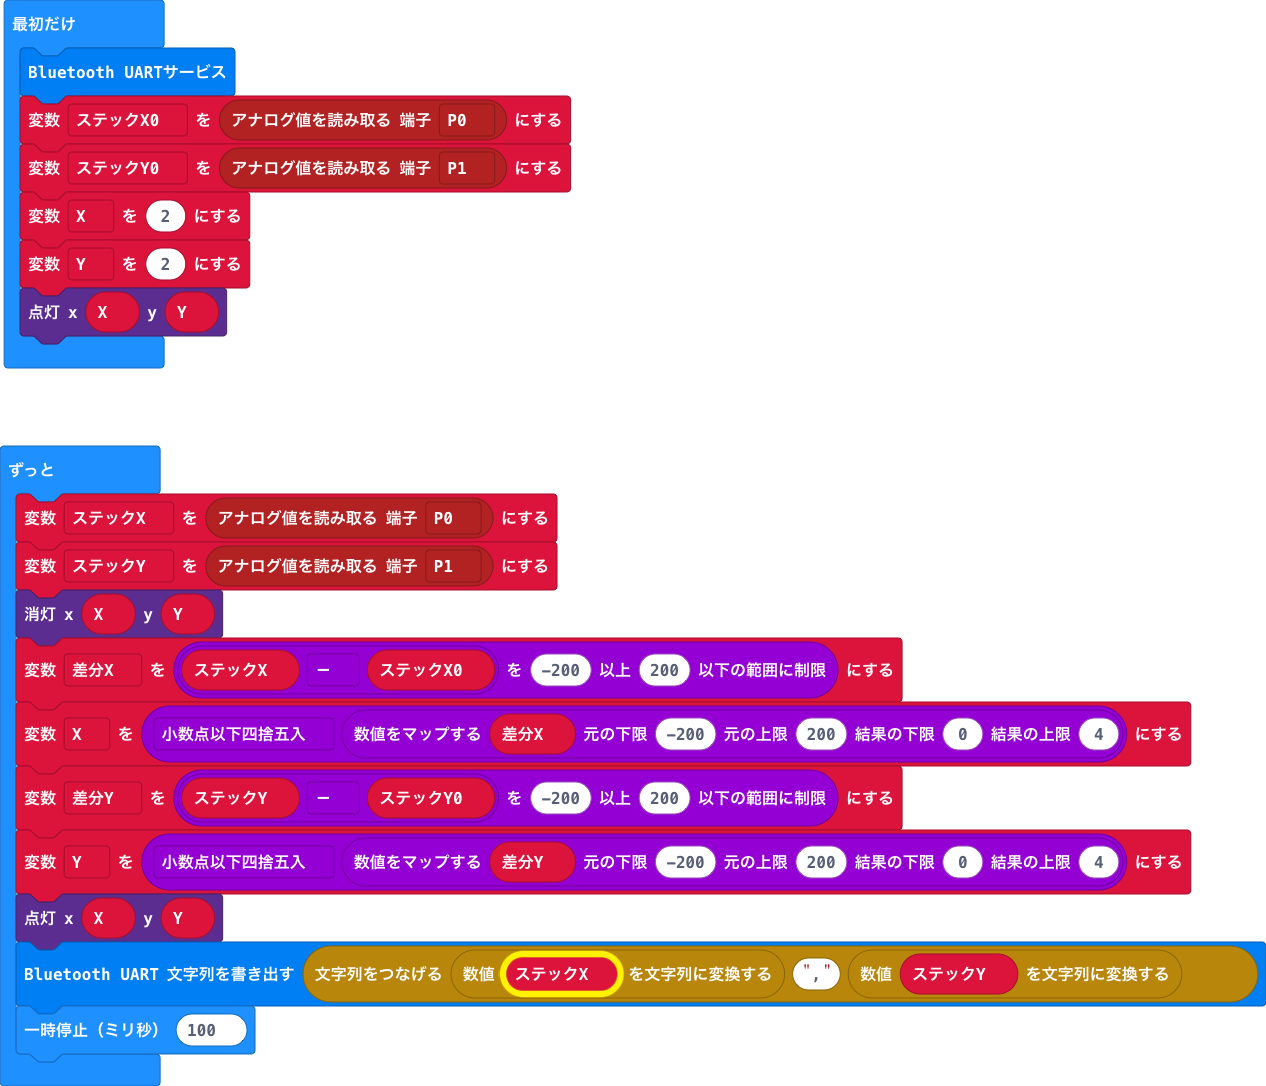
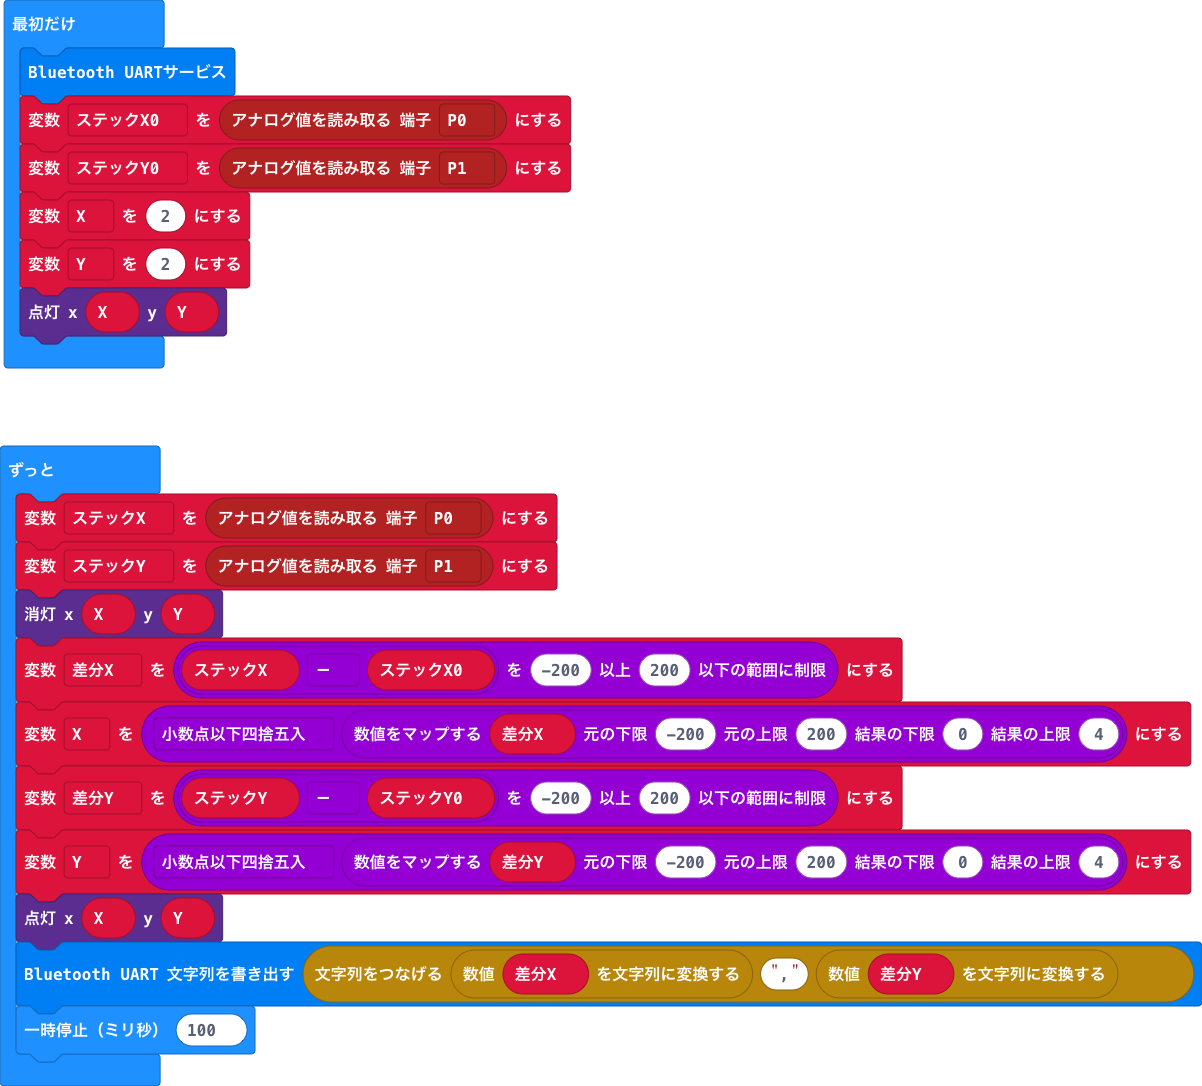
差分表示

Changed region(s): [[0.0, 0.395, 1.0, 1.0], [0.0, 0.0, 0.4925, 0.3343], [0.0, 0.0, 0.0616, 0.0304]]

diff --git a/main.ts b/main.ts
@@ -17,6 +17,6 @@ basic.forever(function () {
     差分Y = Math.constrain(ステックY - ステックY0, -200, 200)
     Y = Math.round(Math.map(差分Y, -200, 200, 0, 4))
     led.plot(X, Y)
-    bluetooth.uartWriteString("" + convertToText(ステックX) + "," + convertToText(ステックY))
+    bluetooth.uartWriteString("" + convertToText(差分X) + "," + convertToText(差分Y))
     basic.pause(100)
 })
